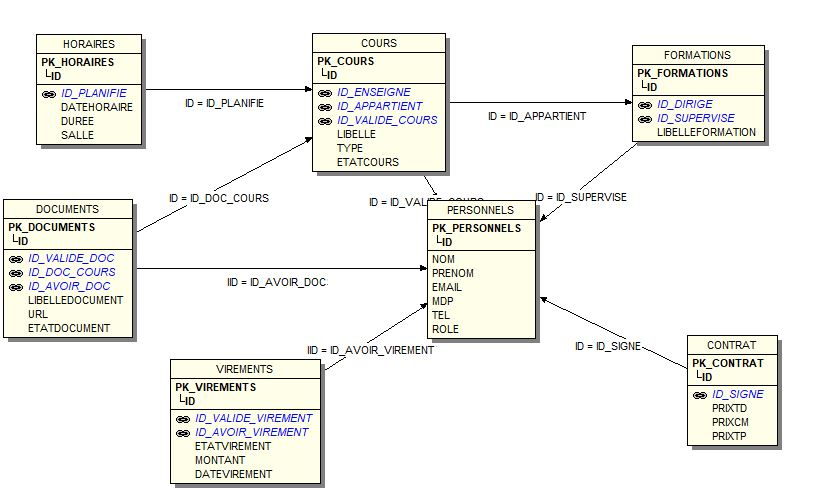
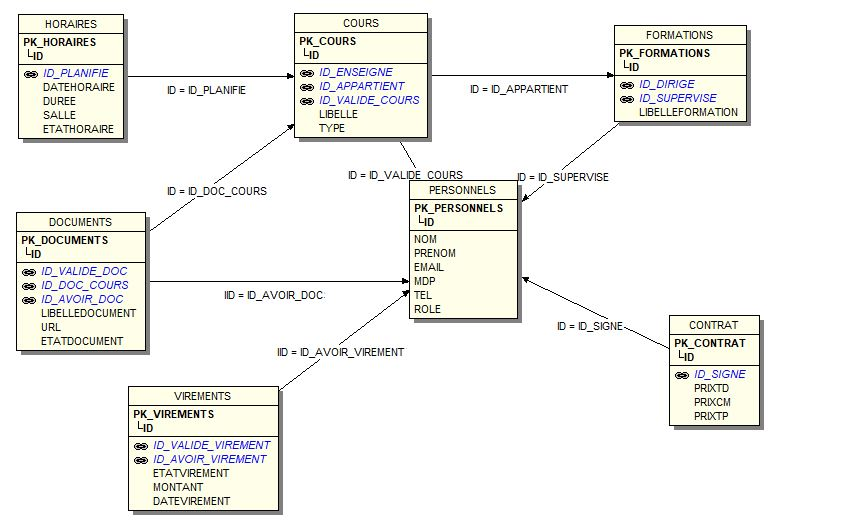
change database add etathoraire

Changed region(s): [[0.0, 0.0, 0.9792, 0.9821], [0.2754, 0.2976, 0.306, 0.3274]]

diff --git a/view/layout/head-vacataire.php b/view/layout/head-vacataire.php
@@ -54,8 +54,9 @@ License URL: http://creativecommons.org/licenses/by/3.0/
     </div>
     <ul class="nav navbar-nav">
       <li><a href="<?php echo Router::url('listeCours'); ?>">Mes Cours</a></li>
-      <li><a href="<?php echo Router::url('listeFormations'); ?>">Liste des Formations</a></li>
       <li><a href="<?php echo Router::url('horaires'); ?>">Mes Horaires</a></li>
+      <li><a href="<?php echo Router::url('horaires'); ?>">Mes Documents</a></li>
+      <li><a href="<?php echo Router::url('horaires'); ?>">Mon Profile</a></li>
     </ul>
     <ul class="nav navbar-nav navbar-right">
       <li><a href="#"><span class="glyphicon glyphicon-user"></span> <?php echo $p; ?></a></li>
